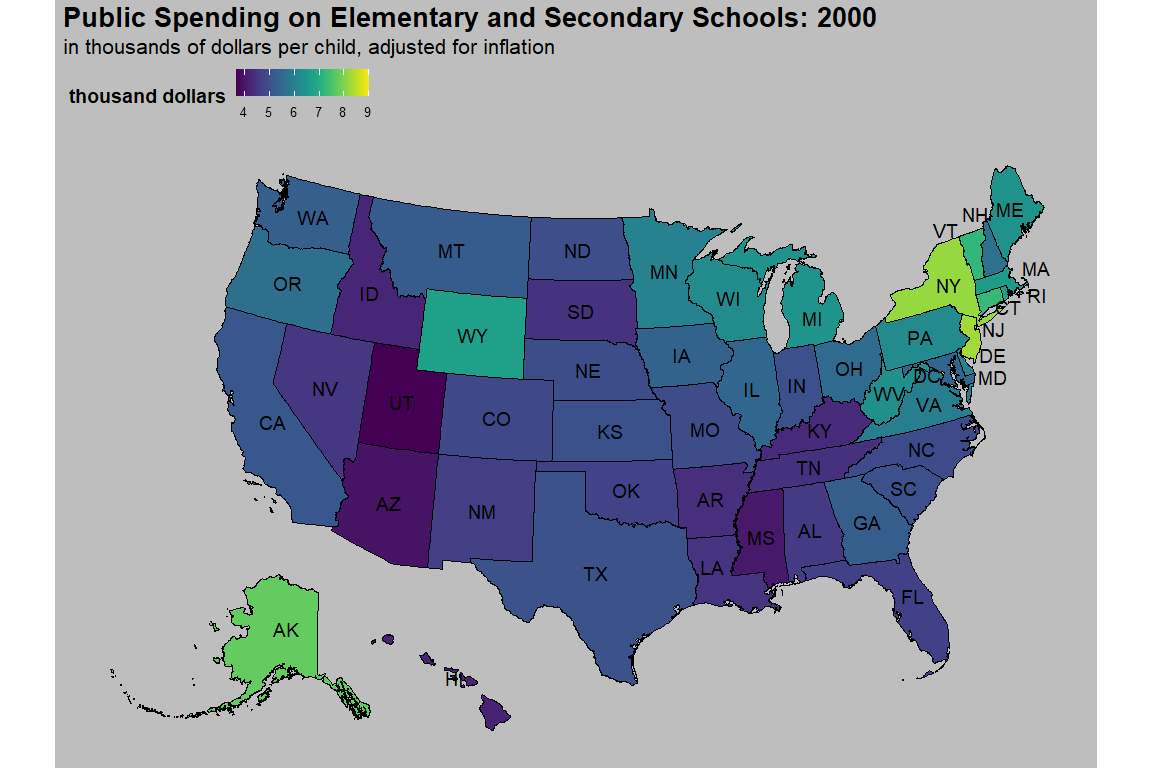
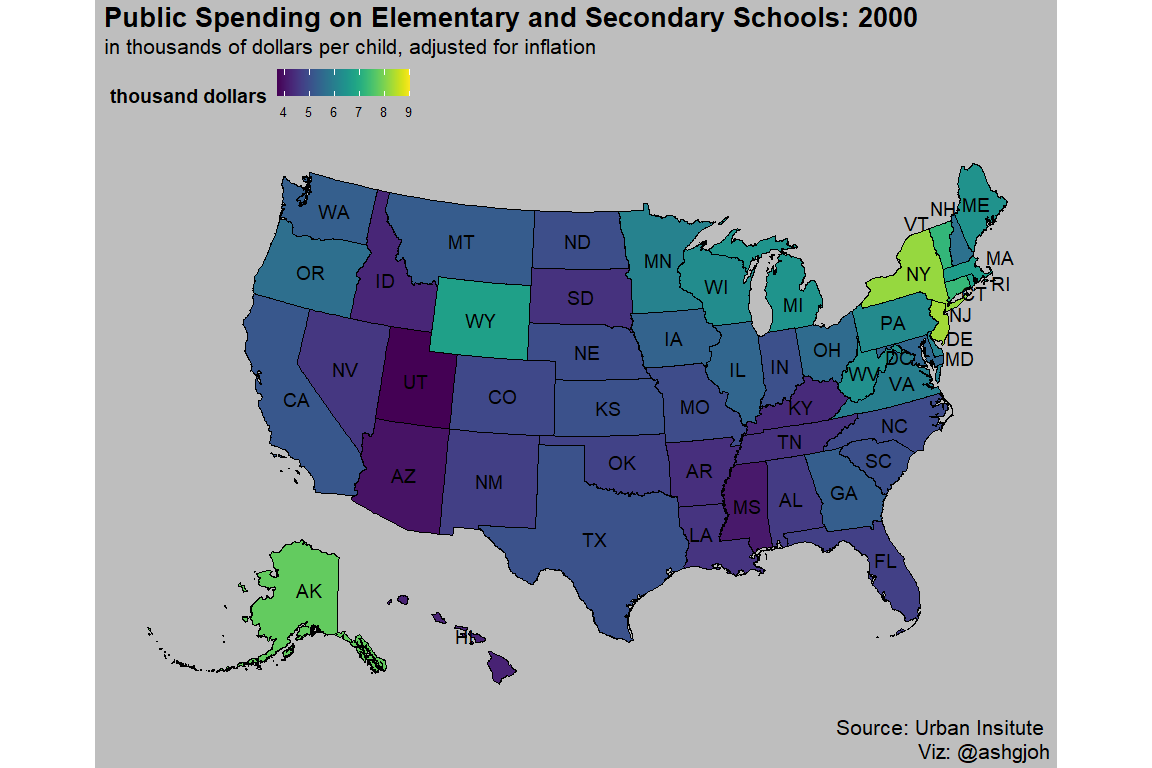
tidied code and finalized gif without DC data

Changed region(s): [[0.1562, 0.0, 0.9688, 1.0], [0.0312, 0.0, 0.8125, 1.0], [0.375, 0.7812, 0.4688, 0.9688]]

diff --git a/2020_Week38/200915_tidytuesday.md b/2020_Week38/200915_tidytuesday.md
@@ -35,16 +35,22 @@ kids <- dat$kids %>%
 ### Initial Plots to Check Out the Data
 
 ``` r
-ggplot() + geom_area(data = kids %>% filter(variable == "PK12ed"), aes(x = year, 
-    y = inf_adj_perchild, fill = state_name), show.legend = FALSE) + scale_fill_viridis(discrete = TRUE) + 
-    theme_classic() + labs(title = "Public Spending on Elementary & Secondary Schools Per Child by State", 
-    subtitle = "in $1000s", xlab = "Year", ylab = "$1000s of Dollars per Child, Adjusted for Inflation") + 
-    facet_wrap(~state_name, ncol = 5)
+ggplot() +
+  geom_area(
+    data = kids %>%
+      filter(variable == "PK12ed"),
+    aes(x = year, y = inf_adj_perchild, fill = state_name),
+    show.legend = FALSE
+  ) +
+  scale_fill_viridis(discrete = TRUE) +
+  theme_classic() +
+  labs(title = "Public Spending on Elementary & Secondary Schools Per Child by State", subtitle = "in $1000s", xlab = "Year", ylab = "$1000s of Dollars per Child, Adjusted for Inflation") +
+  facet_wrap(~state_name, ncol = 5)
 ```
 
 ![](200915_tidytuesday_files/figure-gfm/fig1-1.png)<!-- -->
 
-Looking at this initial plot, I am curious to see this data in more
+Looking at this initial plot, I am curious to see this data in a more
 concise way. Can I plot this data onto a map of the US?
 
 ### US Map Based Plots
@@ -56,31 +62,42 @@ states_sf <- get_urbn_map("states", sf = TRUE)
 
 
 kids_spatial_2000 <- full_join(states_sf,
-                          kids %>% 
-                            filter(variable == "PK12ed", year == 2000),
-                          by = "state_name")
+  kids %>%
+    filter(variable == "PK12ed", year == 2000),
+  by = "state_name"
+)
 
-kids_spatial_2000 %>% 
-ggplot() +
-  geom_sf(mapping = aes(fill = inf_adj_perchild),
-          color = "black", size = 0.25) +
+kids_spatial_2000 %>%
+  ggplot() +
+  geom_sf(
+    mapping = aes(fill = inf_adj_perchild),
+    color = "black", size = 0.25
+  ) +
   scale_fill_viridis(discrete = FALSE) +
-   geom_sf_text(data = get_urbn_labels(map = "states", sf = TRUE), 
-                aes(label = state_abbv), color = "black", 
-            size = 5) + 
-  labs(fill = "thousand dollars",
-       title = "Public Spending on Elementary and Secondary Schools: 2000",
-       subtitle = "in thousands of dollars per child, adjusted for inflation") +
-  theme_map() + 
-  theme(plot.title = element_text(size = 20, face = "bold"),
-        plot.subtitle = element_text(size = 16),
-        legend.title = element_text(size = 14, face = "bold"),
-        legend.text = element_text(size = 10),
-        legend.key.size = unit(20, "pt"),
-        legend.position = "top",
-        panel.background = element_rect(fill = 'gray', colour = 'gray'),
-        plot.background = element_rect(fill = 'gray', colour = 'gray'), 
-        legend.background = element_rect(fill = "gray", color = "gray"))
+  geom_sf_text(
+    data = get_urbn_labels(map = "states", sf = TRUE),
+    aes(label = state_abbv), color = "black",
+    size = 5
+  ) +
+  labs(
+    fill = "thousand dollars",
+    title = "Public Spending on Elementary and Secondary Schools: 2000",
+    subtitle = "in thousands of dollars per child, adjusted for inflation",
+    caption = "Source: Urban Insitute \n Viz: @ashgjoh"
+  ) +
+  theme_map() +
+  theme(
+    plot.title = element_text(size = 20, face = "bold"),
+    plot.subtitle = element_text(size = 16),
+    plot.caption = element_text(size = 16),
+    legend.title = element_text(size = 14, face = "bold"),
+    legend.text = element_text(size = 10),
+    legend.key.size = unit(20, "pt"),
+    legend.position = "top",
+    panel.background = element_rect(fill = "gray", colour = "gray"),
+    plot.background = element_rect(fill = "gray", colour = "gray"),
+    legend.background = element_rect(fill = "gray", color = "gray")
+  )
 ```
 
 ![](200915_tidytuesday_files/figure-gfm/fig2-1.png)<!-- -->
@@ -89,40 +106,51 @@ This is an animated plots to show all of the years.
 
 ``` r
 kids_spatial <- full_join(states_sf,
-                          kids %>% 
-                            filter(variable == "PK12ed"),
-                          by = "state_name")
+  kids %>%
+    filter(variable == "PK12ed"),
+  by = "state_name"
+)
 
-plot <-kids_spatial %>% 
-ggplot() +
-  geom_sf(mapping = aes(fill = inf_adj_perchild),
-          color = "black", size = 0.25) +
+plot <- kids_spatial %>%
+  ggplot() +
+  geom_sf(
+    mapping = aes(fill = inf_adj_perchild),
+    color = "black", size = 0.25
+  ) +
   scale_fill_viridis(discrete = FALSE) +
-   geom_sf_text(data = get_urbn_labels(map = "states", sf = TRUE), 
-                aes(label = state_abbv), color = "black", 
-            size = 15) + 
-  labs(fill = "thousand dollars",
-       subtitle = "in thousands of dollars per child, adjusted for inflation") +
-  theme_map() + 
-  theme(plot.title = element_text(size = 50, face = "bold"),
-        plot.subtitle = element_text(size = 40),
-        legend.title = element_text(size = 30, face = "bold"),
-        legend.text = element_text(size = 25),
-        legend.key.size = unit(60, "pt"),
-        legend.position = "top",
-        panel.background = element_rect(fill = 'gray', colour = 'gray'),
-        plot.background = element_rect(fill = 'gray', colour = 'gray'), 
-        legend.background = element_rect(fill = "gray", color = "gray"))
+  geom_sf_text(
+    data = get_urbn_labels(map = "states", sf = TRUE),
+    aes(label = state_abbv), color = "black",
+    size = 15
+  ) +
+  labs(
+    fill = "thousand dollars",
+    subtitle = "in thousands of dollars per child, adjusted for inflation",
+    caption = "Source: Urban Insitute \n Viz: @ashgjoh"
+  ) +
+  theme_map() +
+  theme(
+    plot.title = element_text(size = 50, face = "bold"),
+    plot.subtitle = element_text(size = 40),
+    plot.caption = element_text(size = 40),
+    legend.title = element_text(size = 30, face = "bold"),
+    legend.text = element_text(size = 25),
+    legend.key.size = unit(60, "pt"),
+    legend.position = "top",
+    panel.background = element_rect(fill = "gray", colour = "gray"),
+    plot.background = element_rect(fill = "gray", colour = "gray"),
+    legend.background = element_rect(fill = "gray", color = "gray")
+  )
 
 
- plot_animated <- plot +
+plot_animated <- plot +
   ggtitle("Public Spending on Elementary and Secondary Schools: {frame_time}") +
   transition_time(as.integer(year)) +
   ease_aes("linear") +
   enter_fade() +
   exit_fade()
-  
- 
+
+
 animate(plot_animated, renderer = gifski_renderer(), width = 1000, height = 666, res = 35)
 ```
 
@@ -130,4 +158,61 @@ animate(plot_animated, renderer = gifski_renderer(), width = 1000, height = 666,
 
 ``` r
 anim_save("kids_school_spending.gif")
+```
+
+One thing that I’m noticing is that DC seems to overall spend far more
+money per child than the other states. This vast difference may make it
+more difficult to notice differences in spending between the other
+states. So for this next plot, I’m going to take DC out of the data.
+
+``` r
+kids_spatial_noDC <- kids_spatial %>%
+  filter(state_name != "District of Columbia")
+
+plot_noDC <- kids_spatial_noDC %>%
+  ggplot() +
+  geom_sf(
+    mapping = aes(fill = inf_adj_perchild),
+    color = "black", size = 0.25
+  ) +
+  scale_fill_viridis(discrete = FALSE) +
+  geom_sf_text(
+    data = get_urbn_labels(map = "states", sf = TRUE),
+    aes(label = state_abbv), color = "black",
+    size = 15
+  ) +
+  labs(
+    fill = "thousand dollars",
+    subtitle = "in thousands of dollars per child, adjusted for inflation \n (does not include District of Columbia)",
+    caption = "Source: Urban Insitute \n Viz: @ashgjoh"
+  ) +
+  theme_map() +
+  theme(
+    plot.title = element_text(size = 50, face = "bold"),
+    plot.subtitle = element_text(size = 40),
+    plot.caption = element_text(size = 40),
+    legend.title = element_text(size = 30, face = "bold"),
+    legend.text = element_text(size = 25),
+    legend.key.size = unit(60, "pt"),
+    legend.position = "top",
+    panel.background = element_rect(fill = "gray", colour = "gray"),
+    plot.background = element_rect(fill = "gray", colour = "gray"),
+    legend.background = element_rect(fill = "gray", color = "gray")
+  )
+
+
+plot_animated_noDC <- plot_noDC +
+  ggtitle("Public Spending on Elementary and Secondary Schools: {frame_time}") +
+  transition_time(as.integer(year)) +
+  ease_aes("linear") +
+  enter_fade() +
+  exit_fade()
+
+animate(plot_animated_noDC, renderer = gifski_renderer(), width = 1000, height = 666, res = 35)
+```
+
+![](200915_tidytuesday_files/figure-gfm/animated%20plot%20without%20DC-1.gif)<!-- -->
+
+``` r
+anim_save("kids_school_spending_noDC.gif")
 ```
